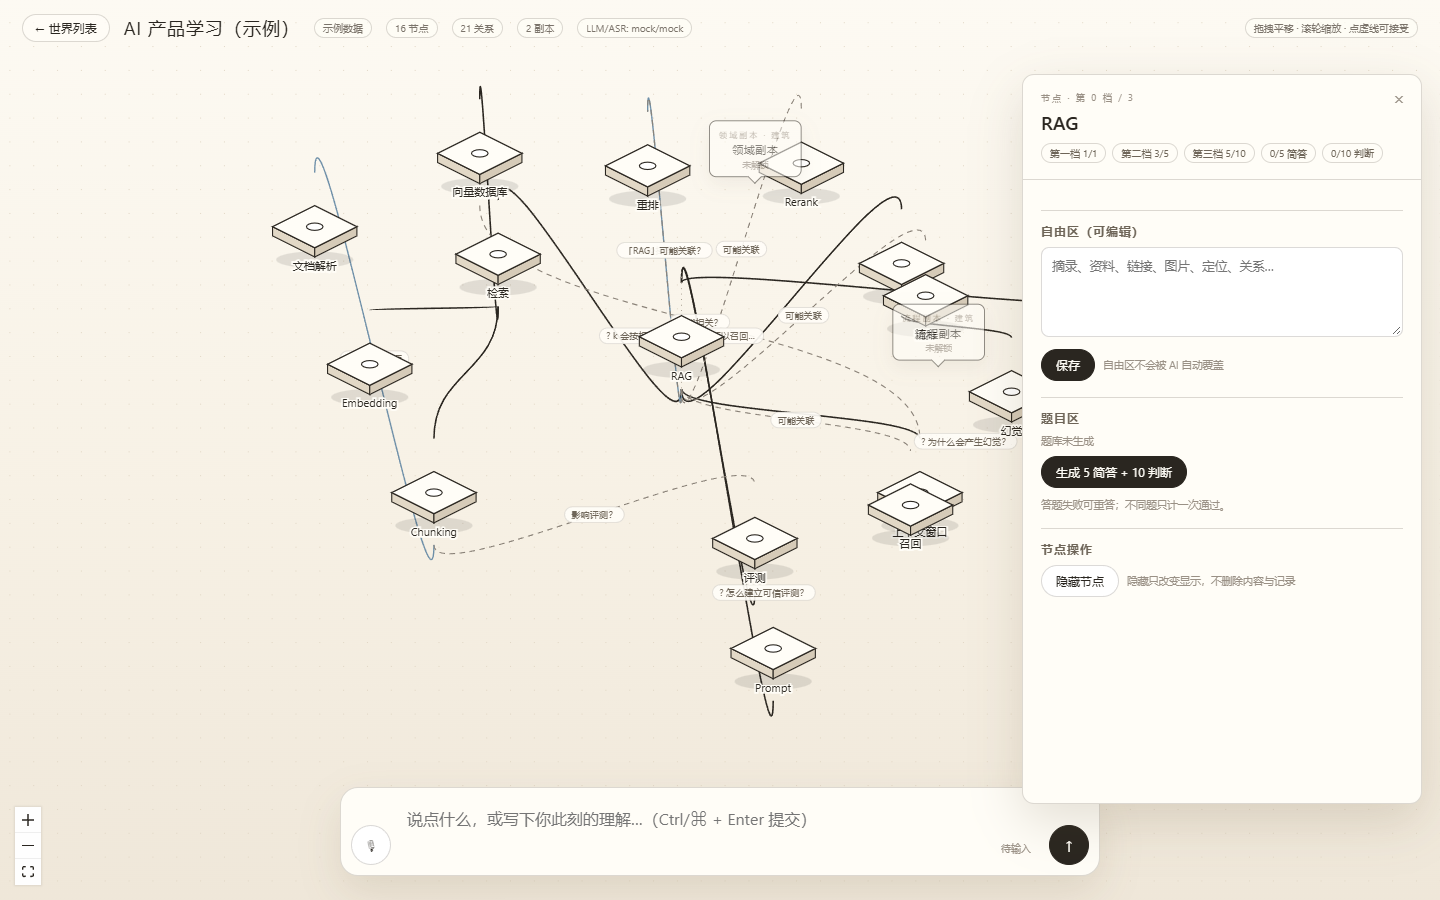
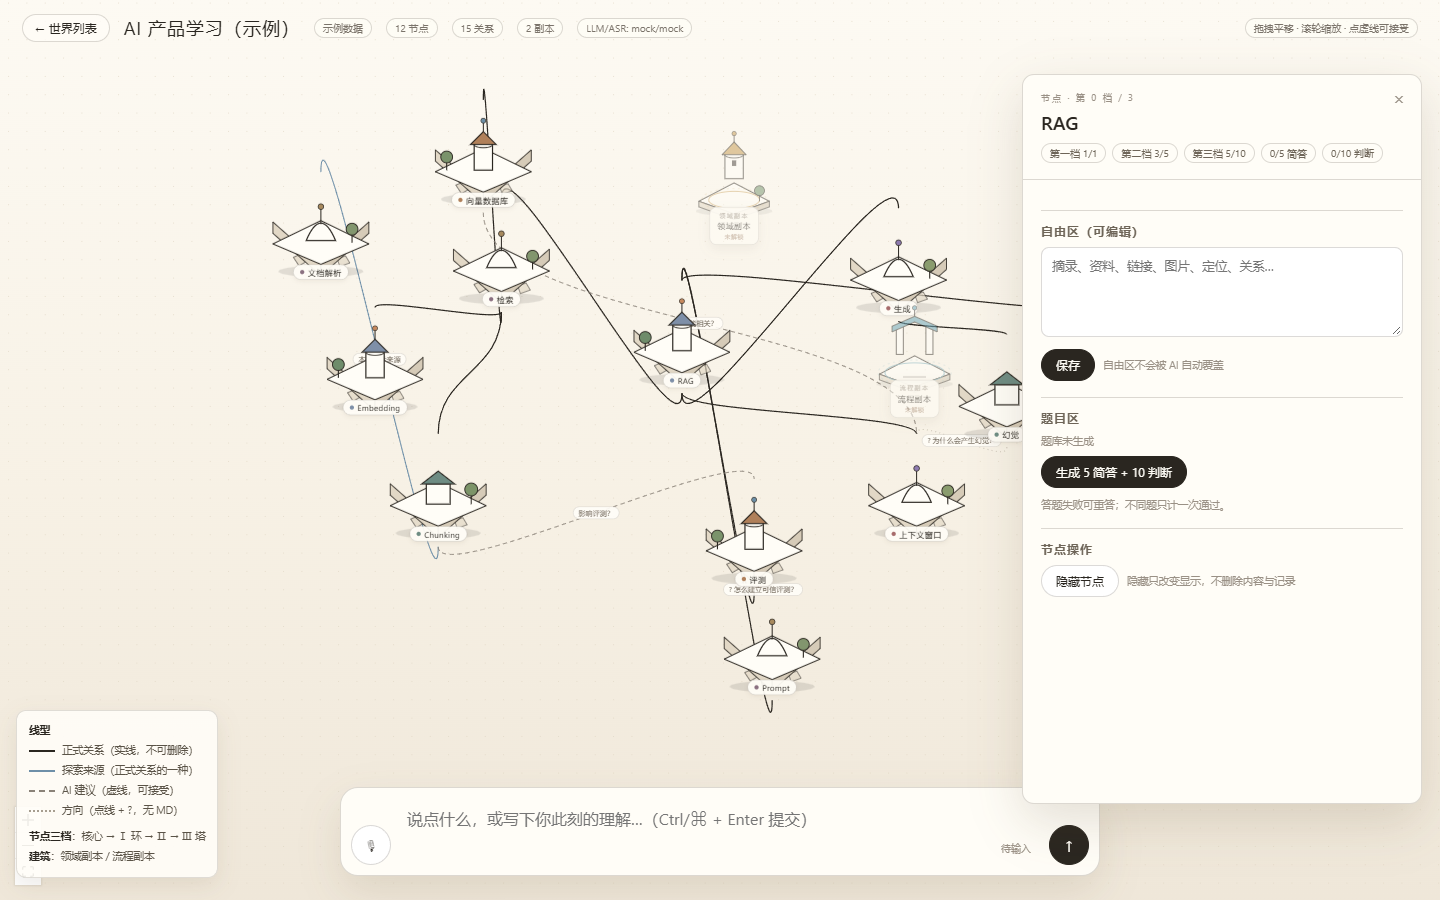
style: 节点改为等距浮岛（岛体+地标+三档环），副本改为塔/门造型，新增线型图例
- 节点不再是小菱形，按 HTML 样片的等距浮岛语言重做：厚度岛体、每节点不同地标（房/塔/穹顶）、树与浮石
- 三档形态：核心 → Ⅰ环 → Ⅱ环+更大体量 → Ⅲ塔+双环+卫星
- 副本：领域副本=塔+环，流程副本=门+阶，状态标签（未解锁/可挑战/已通关）
- 左侧新增线型图例（正式/来源/建议/方向）与节点三档说明
- 节点坐标随造型放大拉开 1.28 倍，避免岛体重叠

diff --git a/web/src/components/IslandNode.tsx b/web/src/components/IslandNode.tsx
@@ -1,62 +1,132 @@
 import { Handle, Position } from "@xyflow/react";
 
 const INK = "#2a2620";
-const SIDE = "#e2d8c6";
 const TOP = "#fffdf7";
+const SIDE = "#e2d8c6";
 
-/** 2.5D 等距浮岛：三档形态（核心 / 带环 / 双环+塔） */
+const PALETTES = [
+  { roof: "#c97b6b", accent: "#6fa8b8", tree: "#7e9a76" },
+  { roof: "#7e8fa8", accent: "#c98a5e", tree: "#6e8c6a" },
+  { roof: "#a76b6b", accent: "#8e7bb0", tree: "#8a9c6e" },
+  { roof: "#6e8c83", accent: "#c9a05b", tree: "#7c9468" },
+  { roof: "#b0805a", accent: "#6b8fa8", tree: "#7a936b" },
+  { roof: "#8a7080", accent: "#a88a5e", tree: "#82966e" },
+];
+const GRAY = { roof: "#b6b0a6", accent: "#c2bcb2", tree: "#afa89e" };
+
+function hash(s: string) {
+  let h = 0;
+  for (let i = 0; i < s.length; i++) h = (h * 31 + s.charCodeAt(i)) | 0;
+  return Math.abs(h);
+}
+
+type Pal = { roof: string; accent: string; tree: string };
+
+function Tree({ x, y, s, pal }: { x: number; y: number; s: number; pal: Pal }) {
+  return (
+    <g>
+      <line x1={x} y1={y} x2={x} y2={y - 12 * s} stroke={INK} strokeWidth="1.2" />
+      <circle cx={x} cy={y - 18 * s} r={8 * s} fill={pal.tree} stroke={INK} strokeWidth="1" />
+    </g>
+  );
+}
+
+/** 每个节点都有自己的地标：房 / 塔 / 穹顶；档位只加环与体量 */
+function Landmark({ cx, top, pal, variant, tier }: { cx: number; top: number; pal: Pal; variant: number; tier: number }) {
+  const big = tier >= 2 ? 1.25 : 1;
+  if (tier >= 3) {
+    return (
+      <g>
+        <rect x={cx - 11} y={top + 6} width="22" height="34" fill={TOP} stroke={INK} strokeWidth="1.3" />
+        <path d={`M${cx - 15} ${top + 6} L${cx} ${top - 10} L${cx + 15} ${top + 6} Z`} fill={pal.roof} stroke={INK} strokeWidth="1.2" />
+        <line x1={cx} y1={top - 10} x2={cx} y2={top - 19} stroke={INK} strokeWidth="1.2" />
+        <circle cx={cx} cy={top - 21} r="3" fill={pal.accent} stroke={INK} strokeWidth=".8" />
+        <circle cx={cx + 46} cy={top - 24} r="3.4" fill={pal.accent} stroke={INK} strokeWidth=".8" />
+        <line x1={cx + 22} y1={top - 18} x2={cx + 43} y2={top - 23} stroke={INK} strokeWidth=".7" strokeDasharray="2 3" opacity=".6" />
+        <Tree x={cx - 44} y={top + 38} s={0.9} pal={pal} />
+        <rect x={cx - 3} y={top + 22} width="6" height="8" fill={INK} opacity=".75" />
+      </g>
+    );
+  }
+  if (variant === 0) {
+    return (
+      <g>
+        <rect x={cx - 13 * big} y={top + 16 * big} width={26 * big} height={22 * big} fill={TOP} stroke={INK} strokeWidth="1.3" />
+        <path
+          d={`M${cx - 18 * big} ${top + 16 * big} L${cx} ${top + 2 * big} L${cx + 18 * big} ${top + 16 * big} Z`}
+          fill={pal.roof}
+          stroke={INK}
+          strokeWidth="1.2"
+        />
+        <line x1={cx + 36} y1={top + 38} x2={cx + 36} y2={top + 28} stroke={INK} strokeWidth="1.1" />
+        <circle cx={cx + 36} cy={top + 22} r="7" fill={pal.tree} stroke={INK} strokeWidth="1" />
+      </g>
+    );
+  }
+  if (variant === 1) {
+    return (
+      <g>
+        <rect x={cx - 10 * big} y={top + 10 * big} width={20 * big} height={28 * big} fill={TOP} stroke={INK} strokeWidth="1.3" />
+        <ellipse cx={cx} cy={top + 10 * big} rx={10 * big} ry={3.4 * big} fill={TOP} stroke={INK} strokeWidth="1" />
+        <path d={`M${cx - 14 * big} ${top + 10 * big} L${cx} ${top - 4 * big} L${cx + 14 * big} ${top + 10 * big} Z`} fill={pal.roof} stroke={INK} strokeWidth="1.2" />
+        <line x1={cx} y1={top - 4 * big} x2={cx} y2={top - 14} stroke={INK} strokeWidth="1.1" />
+        <circle cx={cx} cy={top - 16} r="2.6" fill={pal.accent} stroke={INK} strokeWidth=".7" />
+        <Tree x={cx - 40} y={top + 38} s={0.8} pal={pal} />
+      </g>
+    );
+  }
+  return (
+    <g>
+      <path d={`M${cx - 16 * big} ${top + 36} Q${cx} ${top - 2} ${cx + 16 * big} ${top + 36} Z`} fill={TOP} stroke={INK} strokeWidth="1.3" />
+      <line x1={cx} y1={top + 18} x2={cx} y2={top + 2} stroke={INK} strokeWidth="1.1" />
+      <circle cx={cx} cy={top - 1} r="3" fill={pal.accent} stroke={INK} strokeWidth=".8" />
+      <Tree x={cx + 34} y={top + 38} s={0.8} pal={pal} />
+    </g>
+  );
+}
+
+/** 等距浮岛节点（三档：核心 → Ⅰ环 → Ⅱ环+更大 → Ⅲ塔+双环+卫星） */
 export default function IslandNode({ data }: any) {
   const tier: number = data.tier ?? 0;
   const name: string = data.name ?? "";
   const hidden: boolean = !!data.hidden;
   const unknown: boolean = !!data.unknown;
   const passed = data.passed ?? { short: 0, judge: 0 };
+  const seed = hash((data.id ?? name) + "");
+  const pal = unknown || hidden ? GRAY : PALETTES[seed % PALETTES.length];
+  const variant = seed % 3;
+  const cx = 95;
+  const top = 66;
+  const bottom = 128;
+  const half = 68;
 
   return (
-    <div className={"island" + (hidden || unknown ? " hidden-node" : "")}>
+    <div className={"island-wrap" + (hidden || unknown ? " dim" : "")}>
       <Handle type="target" position={Position.Top} style={{ opacity: 0 }} />
-      <svg width={140} height={110} viewBox="0 0 140 110">
-        <ellipse cx="70" cy="92" rx="42" ry="9" fill="rgba(0,0,0,.10)" />
-        {/* 侧面 */}
-        <path d="M24 56 L70 79 L70 89 L24 66 Z" fill={SIDE} stroke={INK} strokeWidth="1.2" />
-        <path d="M116 56 L70 79 L70 89 L116 66 Z" fill="#d6cbb8" stroke={INK} strokeWidth="1.2" />
-        {/* 顶面 */}
-        <path d="M70 33 L116 56 L70 79 L24 56 Z" fill={TOP} stroke={INK} strokeWidth="1.4" />
-        {/* 地标：按档位 */}
-        {tier >= 3 ? (
-          <>
-            <rect x="63" y="34" width="14" height="22" fill="#fff" stroke={INK} strokeWidth="1.2" />
-            <path d="M60 34 L70 24 L80 34 Z" fill="#fff" stroke={INK} strokeWidth="1.2" />
-            <line x1="70" y1="24" x2="70" y2="18" stroke={INK} strokeWidth="1.2" />
-            <circle cx="70" cy="16" r="2.4" fill={INK} />
-            <ellipse cx="70" cy="62" rx="34" ry="11" fill="none" stroke={INK} strokeWidth="0.8" opacity=".6" />
-            <ellipse cx="70" cy="62" rx="42" ry="14" fill="none" stroke={INK} strokeWidth="0.6" opacity=".35" />
-          </>
-        ) : tier >= 2 ? (
-          <>
-            <path d="M58 48 L70 42 L82 48 L70 54 Z" fill="#fff" stroke={INK} strokeWidth="1.2" />
-            <rect x="62" y="51" width="16" height="10" fill="#fff" stroke={INK} strokeWidth="1.2" />
-            <ellipse cx="70" cy="63" rx="34" ry="11" fill="none" stroke={INK} strokeWidth="0.8" opacity=".6" />
-          </>
-        ) : tier >= 1 ? (
-          <>
-            <path d="M58 50 L70 44 L82 50 L70 56 Z" fill="#fff" stroke={INK} strokeWidth="1.2" />
-            <rect x="62" y="53" width="16" height="8" fill="#fff" stroke={INK} strokeWidth="1.2" />
-          </>
-        ) : (
-          <ellipse cx="70" cy="56" rx="9" ry="4" fill="#fff" stroke={INK} strokeWidth="1.2" />
+      <svg width={190} height={150} viewBox="0 0 190 150">
+        <ellipse cx={cx} cy={138} rx={60} ry={8} fill="rgba(0,0,0,.10)" />
+        <path d="M56 118 L70 112 L78 122 L64 130 Z" fill={SIDE} stroke={INK} strokeWidth="1" opacity=".8" />
+        <path d="M118 120 L130 116 L136 126 L122 131 Z" fill={SIDE} stroke={INK} strokeWidth="1" opacity=".7" />
+        <path d={`M${cx - half} ${top + 2} L${cx} ${bottom} L${cx} ${bottom + 16} L${cx - half} ${top + 18} Z`} fill={SIDE} stroke={INK} strokeWidth="1.2" />
+        <path d={`M${cx + half} ${top + 2} L${cx} ${bottom} L${cx} ${bottom + 16} L${cx + half} ${top + 18} Z`} fill="#d6cbb8" stroke={INK} strokeWidth="1.2" />
+        <path d={`M${cx} ${top} L${cx + half} ${top + 33} L${cx} ${bottom} L${cx - half} ${top + 33} Z`} fill={TOP} stroke={INK} strokeWidth="1.4" />
+        {tier >= 1 && (
+          <ellipse cx={cx} cy={top + 38} rx={tier >= 3 ? 62 : 50} ry={tier >= 3 ? 19 : 14} fill="none" stroke={pal.accent} strokeWidth={tier >= 3 ? 1.6 : 1.2} opacity=".85" />
         )}
-        <text className="name" x="70" y="103">
-          {unknown ? "???" : name}
-        </text>
+        {tier >= 3 && (
+          <ellipse cx={cx} cy={top + 38} rx={72} ry={22} fill="none" stroke={pal.roof} strokeWidth=".9" opacity=".45" strokeDasharray="3 5" />
+        )}
+        <g transform={`translate(${cx} ${bottom}) scale(1.3) translate(${-cx} ${-bottom})`}>
+          <Landmark cx={cx} top={top} pal={pal} variant={variant} tier={tier} />
+        </g>
       </svg>
-      {tier > 0 && (
-        <div className="badge-tier" style={{ left: 70, top: 12 }}>
-          {"ⅠⅡⅢ"[tier - 1] ?? tier}
-        </div>
-      )}
+      <div className="island-label">
+        <span className="dot" style={{ background: pal.roof }} />
+        {unknown ? "???" : name}
+        {tier > 0 && <span className="lv">{"ⅠⅡⅢ"[tier - 1]}</span>}
+      </div>
       {passed.short + passed.judge > 0 && (
-        <div style={{ position: "absolute", left: 114, top: 96, fontSize: 9, color: "#8a8278" }}>
+        <div className="island-sub">
           {passed.short}/5 · {passed.judge}/10
         </div>
       )}

diff --git a/web/src/components/BuildingNode.tsx b/web/src/components/BuildingNode.tsx
@@ -1,22 +1,67 @@
 import { Handle, Position } from "@xyflow/react";
 
-/** 副本建筑节点：领域副本 / 流程副本 */
+const INK = "#2a2620";
+const TOP = "#fffdf7";
+const SIDE = "#e2d8c6";
+
+/** 副本建筑：领域副本 = 塔 + 环；流程副本 = 门 + 阶 */
 export default function BuildingNode({ data }: any) {
-  const locked = data.status === "locked" || data.status === "locked";
+  const flow = data.kind === "flow";
+  const locked = data.status === "locked";
+  const cleared = data.status === "cleared";
+  const accent = flow ? "#6fa8b8" : "#c9a05b";
+
+  const cx = 95;
+  const baseY = 110;
+
   return (
-    <div
-      className={"building-node" + (locked ? " locked" : "")}
-      title={data.sub}
-    >
+    <div className={"building-wrap" + (locked ? " locked" : "")}>
       <Handle type="target" position={Position.Top} style={{ opacity: 0 }} />
-      <div className="box">
-        <div className="kind">
-          {data.kind === "flow" ? "流程副本" : "领域副本"} · 建筑
-        </div>
-        <div className="name">{data.title}</div>
-        <div className="status">
-          {data.status === "cleared" ? "已通关" : data.status === "locked" ? "未解锁" : "可挑战"}
-        </div>
+      <svg width={190} height={140} viewBox="0 0 190 140">
+        <ellipse cx={cx} cy={124} rx={54} ry={7} fill="rgba(0,0,0,.10)" />
+        {/* 底座 */}
+        <path d={`M${cx} 84 L${cx + 50} ${baseY} L${cx} ${baseY + 18} L${cx - 50} ${baseY} Z`} fill={TOP} stroke={INK} strokeWidth="1.3" />
+        <path d={`M${cx - 50} ${baseY} L${cx} ${baseY + 18} L${cx} ${baseY + 26} L${cx - 50} ${baseY + 8} Z`} fill={SIDE} stroke={INK} strokeWidth="1.1" />
+        <path d={`M${cx + 50} ${baseY} L${cx} ${baseY + 18} L${cx} ${baseY + 26} L${cx + 50} ${baseY + 8} Z`} fill="#d6cbb8" stroke={INK} strokeWidth="1.1" />
+
+        {/* 光环 */}
+        <ellipse cx={cx} cy={baseY - 2} rx={flow ? 42 : 36} ry={flow ? 14 : 12} fill="none" stroke={accent} strokeWidth="1.4" opacity=".8" />
+        <ellipse cx={cx} cy={baseY - 2} rx={flow ? 52 : 46} ry={flow ? 18 : 16} fill="none" stroke={accent} strokeWidth=".8" opacity=".4" strokeDasharray="3 5" />
+
+        {flow ? (
+          <g>
+            {/* 流程门 */}
+            <rect x={cx - 26} y={42} width="10" height="40" fill={TOP} stroke={INK} strokeWidth="1.2" />
+            <rect x={cx + 16} y={42} width="10" height="40" fill={TOP} stroke={INK} strokeWidth="1.2" />
+            <path d={`M${cx - 32} 42 L${cx} 28 L${cx + 32} 42 L${cx + 32} 50 L${cx} 36 L${cx - 32} 50 Z`} fill={accent} stroke={INK} strokeWidth="1.2" />
+            <line x1={cx} y1={28} x2={cx} y2={18} stroke={INK} strokeWidth="1.2" />
+            <circle cx={cx} cy={16} r="3" fill={accent} stroke={INK} strokeWidth=".8" />
+            {/* 台阶 */}
+            <line x1={cx - 16} y1={baseY + 4} x2={cx + 16} y2={baseY + 4} stroke={INK} strokeWidth="1" opacity=".6" />
+            <line x1={cx - 22} y1={baseY + 10} x2={cx + 22} y2={baseY + 10} stroke={INK} strokeWidth="1" opacity=".45" />
+          </g>
+        ) : (
+          <g>
+            {/* 领域塔 */}
+            <rect x={cx - 13} y={44} width="26" height="34" fill={TOP} stroke={INK} strokeWidth="1.2" />
+            <ellipse cx={cx} cy={44} rx="13" ry="4.5" fill={TOP} stroke={INK} strokeWidth="1.1" />
+            <path d={`M${cx - 17} 44 L${cx} 26 L${cx + 17} 44 Z`} fill={accent} stroke={INK} strokeWidth="1.2" />
+            <line x1={cx} y1={26} x2={cx} y2={16} stroke={INK} strokeWidth="1.2" />
+            <circle cx={cx} cy={14} r="3" fill={accent} stroke={INK} strokeWidth=".8" />
+            {/* 小窗 */}
+            <rect x={cx - 3} y={52} width="6" height="8" fill="#2a2620" opacity=".8" />
+            {/* 树 */}
+            <line x1={cx + 36} y1={baseY} x2={cx + 36} y2={baseY - 10} stroke={INK} strokeWidth="1.1" />
+            <circle cx={cx + 36} cy={baseY - 15} r="7" fill="#7e9a76" stroke={INK} strokeWidth="1" />
+          </g>
+        )}
+      </svg>
+      <div className="building-label">
+        <span className="kind">{flow ? "流程副本" : "领域副本"}</span>
+        <span className="name">{data.title}</span>
+        <span className={"status" + (cleared ? " ok" : locked ? " lock" : "")}>
+          {cleared ? "已通关" : locked ? "未解锁" : "可挑战"}
+        </span>
       </div>
       <Handle type="source" position={Position.Bottom} style={{ opacity: 0 }} />
     </div>

diff --git a/web/src/styles.css b/web/src/styles.css
@@ -1,4 +1,4 @@
-:root {
+:root {
   --ink: #2a2620;
   --dim: #7a736a;
   --paper: #f7f2e8;
@@ -147,3 +147,58 @@ input, textarea { font: inherit; color: inherit; }
   border-radius: 999px; padding: 7px 16px; font-size: 12px; z-index: 99; opacity: 0.96;
 }
 .hintline { font-size: 10.5px; color: #9a9186; }
+
+/* ---------- 等距浮岛节点（对齐 HTML 样片） ---------- */
+.island-wrap {
+  position: relative; width: 190px; cursor: pointer; animation: islFloat 6s ease-in-out infinite;
+  transform-origin: 50% 70%;
+}
+@keyframes islFloat { 0%,100% { transform: translateY(0); } 50% { transform: translateY(-3px); } }
+@media (prefers-reduced-motion: reduce) { .island-wrap { animation: none; } }
+.island-wrap:hover svg { filter: drop-shadow(0 6px 14px rgba(90,70,40,.18)); }
+.island-wrap.dim { opacity: .35; filter: grayscale(.6); }
+.island-label {
+  position: absolute; left: 50%; top: 128px; transform: translateX(-50%);
+  display: inline-flex; align-items: center; gap: 5px; white-space: nowrap;
+  background: rgba(255,253,247,.94); border: 1px solid rgba(60,50,40,.18); border-radius: 999px;
+  padding: 2px 9px; font-size: 12px; color: #2a2620; box-shadow: 0 2px 6px rgba(90,70,40,.08);
+}
+.island-label .dot { width: 6px; height: 6px; border-radius: 50%; }
+.island-label .lv {
+  font-size: 9px; border: 1px solid rgba(60,50,40,.25); border-radius: 999px; padding: 0 5px; color: #6e6558;
+}
+.island-sub {
+  position: absolute; left: 50%; top: 152px; transform: translateX(-50%);
+  font-size: 9.5px; color: #8a8278; white-space: nowrap;
+}
+
+/* ---------- 副本建筑（等距） ---------- */
+.building-wrap { position: relative; width: 190px; cursor: pointer; animation: bldFloat 7s ease-in-out infinite; }
+@keyframes bldFloat { 0%,100% { transform: translateY(0); } 50% { transform: translateY(-2px); } }
+@media (prefers-reduced-motion: reduce) { .building-wrap { animation: none; } }
+.building-wrap.locked { opacity: .55; }
+.building-label {
+  position: absolute; left: 50%; top: 118px; transform: translateX(-50%);
+  display: flex; flex-direction: column; align-items: center; gap: 1px;
+  background: rgba(255,253,247,.95); border: 1px solid rgba(60,50,40,.20); border-radius: 10px;
+  padding: 5px 10px 6px; box-shadow: 0 6px 16px rgba(90,70,40,.12); white-space: nowrap;
+}
+.building-label .kind { font-size: 8.5px; letter-spacing: 2px; color: #9a9186; }
+.building-label .name { font-size: 12px; color: #2a2620; }
+.building-label .status { font-size: 9px; color: #8a8278; }
+.building-label .status.ok { color: #4f7a52; }
+.building-label .status.lock { color: #a0836a; }
+
+/* ---------- 图例 ---------- */
+.legend {
+  position: absolute; left: 16px; bottom: 22px; z-index: 15;
+  background: rgba(255,253,247,.92); border: 1px solid rgba(60,50,40,.16); border-radius: 10px;
+  padding: 10px 12px; font-size: 10.5px; color: #5a5347; line-height: 1.9; pointer-events: none;
+  box-shadow: 0 8px 22px rgba(90,70,40,.10);
+}
+.legend b { font-weight: 600; color: #2a2620; }
+.legend .li { display: flex; align-items: center; gap: 7px; }
+.legend .sw { width: 26px; height: 0; border-top: 2px solid #2a2620; display: inline-block; }
+.legend .sw.src { border-top-color: #6e8fa8; }
+.legend .sw.dash { border-top: 2px dashed #8a8278; }
+.legend .sw.dot { border-top: 2px dotted #a79e90; }

diff --git a/web/src/components/World.tsx b/web/src/components/World.tsx
@@ -1,4 +1,4 @@
-import { useCallback, useEffect, useMemo, useState } from "react";
+import { useCallback, useEffect, useMemo, useState } from "react";
 import {
   Background,
   Controls,
@@ -38,10 +38,11 @@ export default function World() {
   }, []);
 
   const rfNodes = useMemo<Node[]>(() => {
+    const SPREAD = 1.28; // 节点造型变大后，坐标也拉开，避免岛叠在一起
     const base: Node[] = nodes.map((n) => ({
       id: n.id,
       type: "island",
-      position: { x: n.x, y: n.y },
+      position: { x: n.x * SPREAD, y: n.y * SPREAD },
       data: { ...n, unknown: false },
       draggable: false,
       selectable: true,
@@ -52,8 +53,8 @@ export default function World() {
         id: "b:" + b.id,
         type: "building",
         position: {
-          x: (anchor?.x ?? 120) + 300,
-          y: (anchor?.y ?? 0) - 90 + i * 110,
+          x: (anchor?.x ?? 120) * SPREAD + 330,
+          y: (anchor?.y ?? 0) * SPREAD - 110 + i * 130,
         },
         data: { ...b },
         draggable: false,
@@ -131,6 +132,15 @@ export default function World() {
           <Background color="#ded3c0" gap={26} size={1} />
           <Controls showInteractive={false} />
         </ReactFlow>
+        <div className="legend">
+          <div><b>线型</b></div>
+          <div className="li"><i className="sw" />正式关系（实线，不可删除）</div>
+          <div className="li"><i className="sw src" />探索来源（正式关系的一种）</div>
+          <div className="li"><i className="sw dash" />AI 建议（虚线，可接受）</div>
+          <div className="li"><i className="sw dot" />方向（点线 + ?，无 MD）</div>
+          <div style={{ marginTop: 6 }}><b>节点三档</b>：核心 → Ⅰ 环 → Ⅱ → Ⅲ 塔</div>
+          <div><b>建筑</b>：领域副本 / 流程副本</div>
+        </div>
         <InputBar />
       </div>
 

diff --git a/README.md b/README.md
@@ -12,6 +12,8 @@
 
 ## 界面
 
+![world](docs/screenshots/05-world.png)
+
 | 世界首页 | 节点抽屉（自由区 + 题目区） |
 | --- | --- |
 | ![home](docs/screenshots/01-home.png) | ![node](docs/screenshots/02-node.png) |
